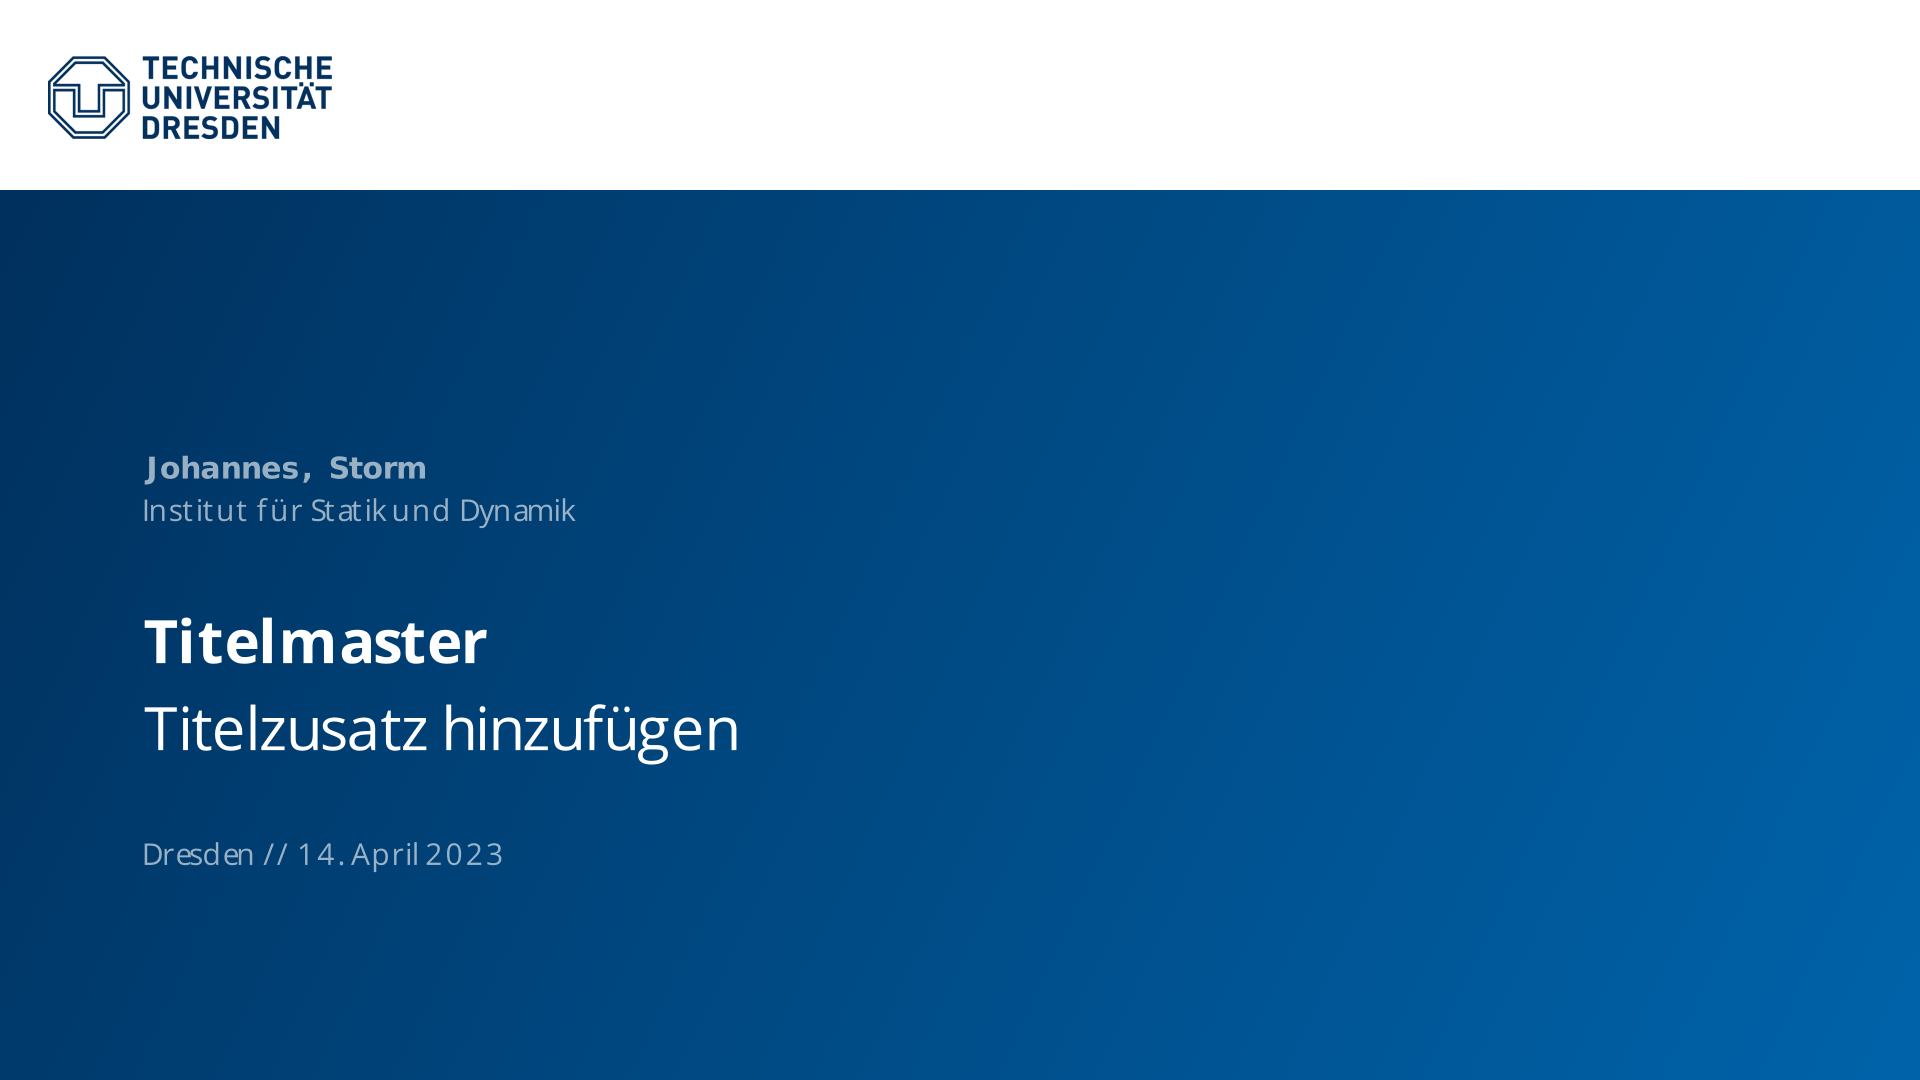
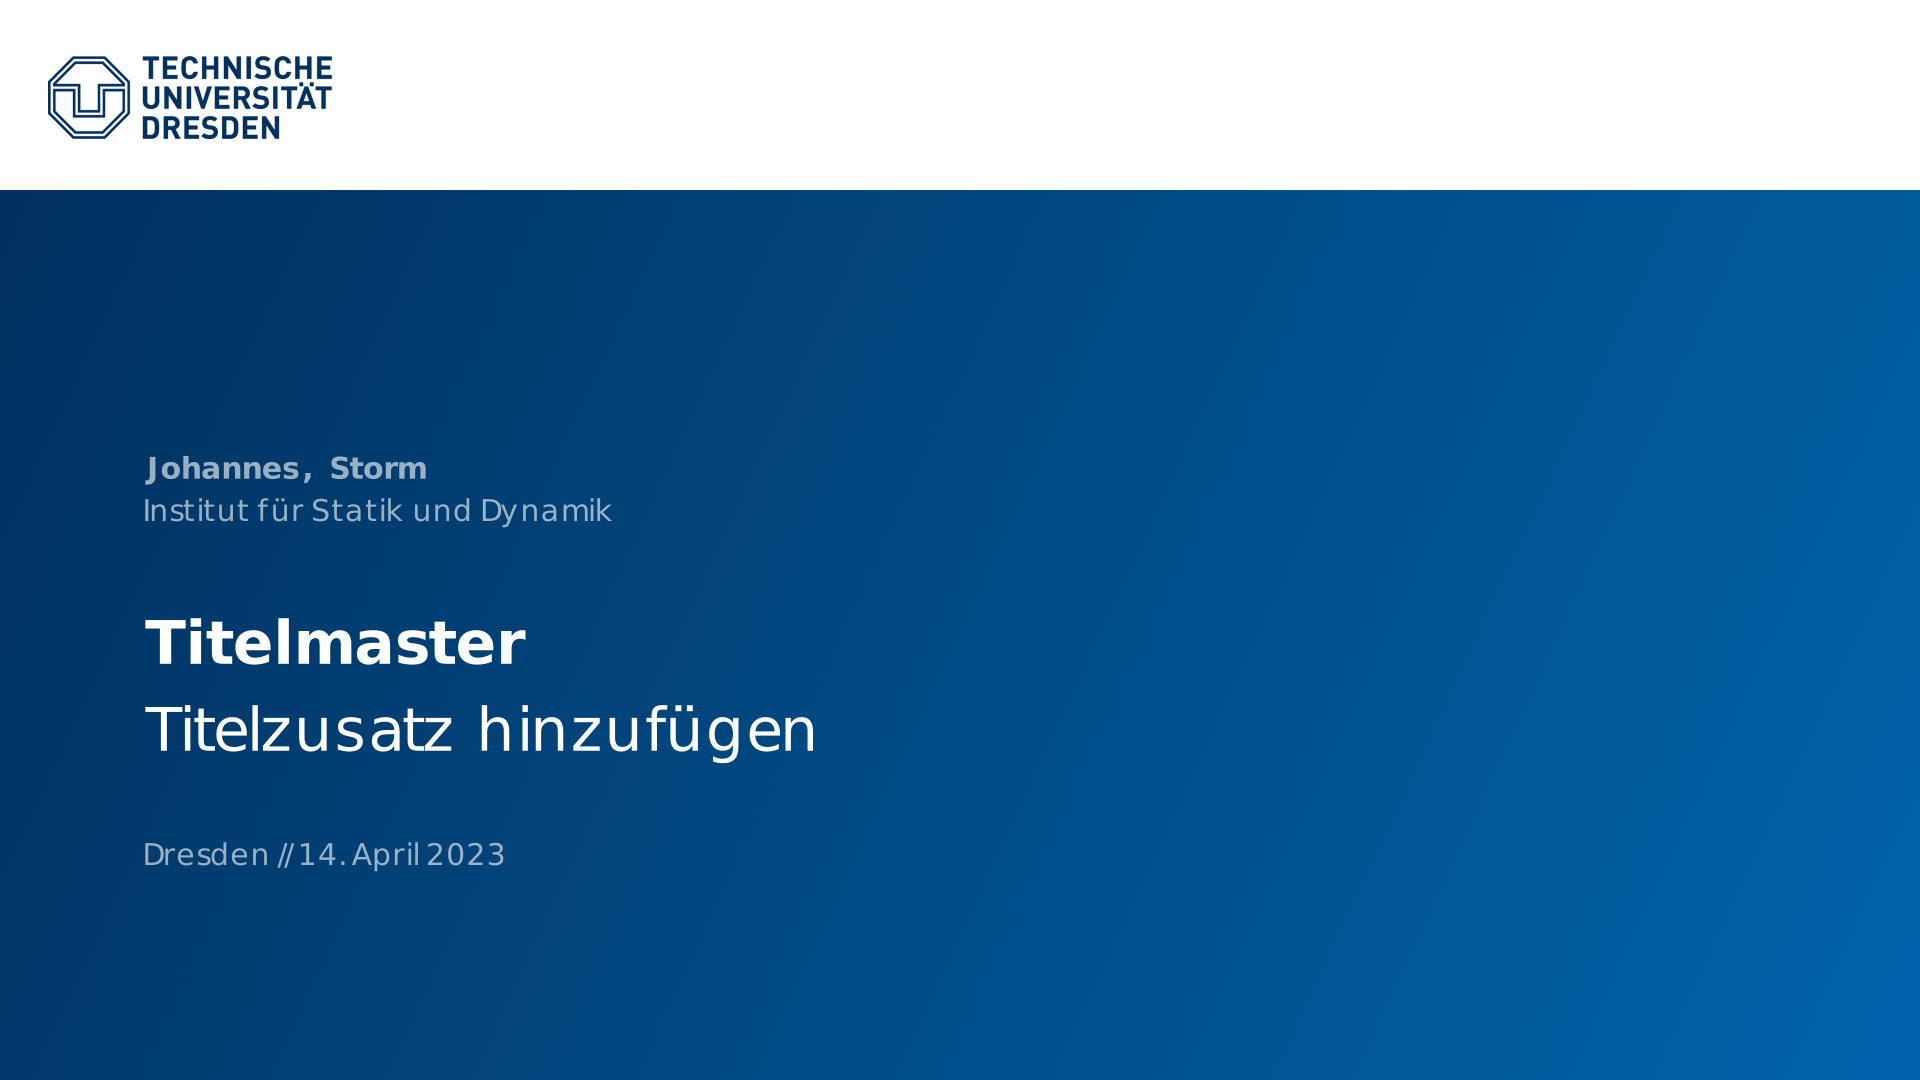
adding all text blocks, aligning them based on the corporate design layout (only possible with eyeballing) automated the current date font not working

diff --git a/title_gradient.py b/title_gradient.py
@@ -1,10 +1,12 @@
 from manim import *
 from datetime import *
+from manim_fonts import *
 
 
 class static_title(Scene):
     def construct(self):
-        Text.set_default(font="Open Sans")
+        with RegisterFont("Open Sans") as fonts:
+            Text.set_default(font=fonts[0])
 
         # background with blue gradient on the title-master
         background_gradient = ImageMobject("background_gradient.png")
@@ -23,7 +25,7 @@ class static_title(Scene):
 
         # first textblock with name and institution
         name = Text("Johannes, Storm",
-                    font_size=16, font="OpenSans", weight=BOLD, fill_opacity=0.6)
+                    font_size=16, weight=BOLD, fill_opacity=0.6)
         institute = Text("Institut für Statik und Dynamik",
                          font_size=16, fill_opacity=0.6)
 
@@ -53,3 +55,8 @@ class static_title(Scene):
         textblock_3.arrange(DOWN, center=False, aligned_edge=LEFT)
         textblock_3.set_y(-2.18)
         self.add(textblock_3)
+
+
+        with RegisterFont("Poppins") as fonts:
+            a = Text("Hello World", font=fonts[0])
+            self.play(Write(a))
